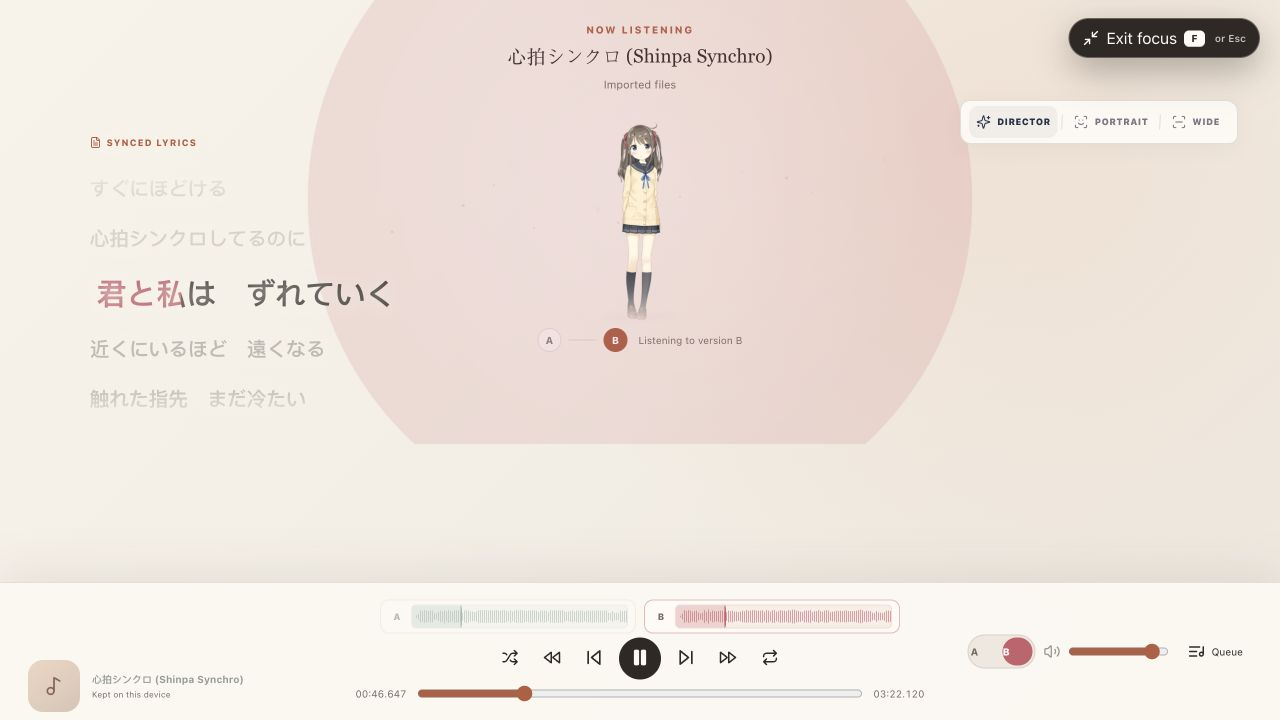
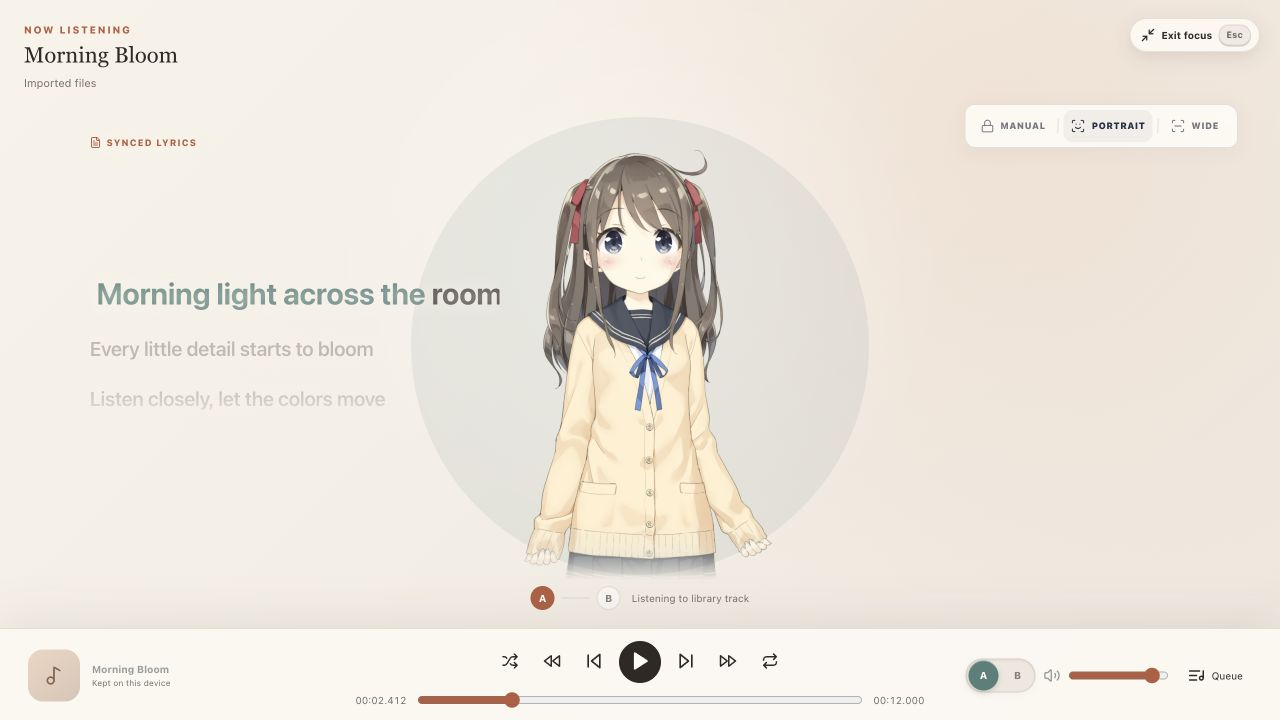
docs: refresh product guide and screenshots

diff --git a/docs/architecture.md b/docs/architecture.md
@@ -47,7 +47,7 @@ Local File(s)
 - Switching tracks changes gain only. It never seeks, changes playback rate, or restarts the clock.
 - An 18 ms crossfade prevents clicks while preserving comparison timing.
 - The longer decoded file defines the shared timeline. A shorter selected source intentionally becomes silent after its own end.
-- The Player and Focus surfaces expose both decoded waveforms, explicit A/B source controls, different-duration and ended-source notices, and visible five-second seek controls.
+- Player exposes both decoded waveforms, explicit A/B source controls, different-duration and ended-source notices, and visible five-second seek controls. Focus keeps source switching and transport controls but omits the waveform cards.
 - Pausing updates the interaction ref, silences the master output, and stops sources in the same input frame.
 
 ## Browser storage and recovery
@@ -125,6 +125,7 @@ The paused state is intentionally quiet, not a frozen bitmap. Natural secondary 
 - The single neutral contact shadow is a Pixi graphic inside Hiyori's camera rig. Its center is offset above the model texture's transparent lower padding so its soft core overlaps the visible soles. It shares the model's position and scale, so wide/close transitions cannot separate the two.
 - Automatic camera motion follows phrase-scale energy, never individual onsets.
 - Entering the player begins on an upper-body close-up. Mouse-wheel input locks manual framing; the Director control resumes automatic framing.
+- Manual framing uses a piecewise render curve: Wide is a larger full-body preset, 162% retains the visible feet, Portrait returns to the authored close-up, and zoom above Portrait adds stronger downward title-safe compensation through the 235% maximum.
 - Pausing holds the current automatic shot.
 
 ## Focus-mode transition
@@ -143,7 +144,7 @@ On initial landing load, the canvas stays hidden while fonts settle and two anim
 
 Arm B ownership is assigned only after CubismPose has initialized its model cache, preventing its implicit first-update reset and 0.5-second part fade. Motion connectors use the complete authored first keyframe—including explicit zero-valued Arm B hand channels—so the final connector frame and the target motion's first frame are identical.
 
-The standard waveform and A/B selector remain the only track controls in both layouts. `prefers-reduced-motion: reduce` disables decorative choreography while preserving the state change.
+The standard waveform cards remain in Player. Focus removes them and retains synchronized lyrics, a compact A/B selector, and the single persistent transport. `prefers-reduced-motion: reduce` disables decorative choreography while preserving the state change.
 
 ## Landing-to-player transition
 

diff --git a/docs/library-player.md b/docs/library-player.md
@@ -50,6 +50,7 @@ Private browsing or unavailable storage falls back to session-only playback with
 - A/B are decoded once and scheduled against the same `AudioContext.currentTime`; source changes only use the existing short gain handoff to prevent clicks, with no media-element chasing or scene fade.
 - Keyboard shortcuts are global outside form controls: Space toggles playback, F toggles Focus, Escape exits Focus/sheets, 1 or A selects source A, 2 or B selects source B, and Left/Right seeks five seconds.
 - Focus always exposes a high-contrast Exit focus control. F enters and exits Focus; Escape remains an exit alternative.
+- Focus removes both waveform cards, preserves synchronized lyrics and the compact A/B selector, and places the stage source indicator directly above the single transport without an implicit empty grid row.
 - Homepage import, Player, Library, Focus enter, and Focus exit reuse the opaque scene curtain from the original listening room. The destination layout is committed only after the curtain covers the Live2D canvas, then held for four paint frames before reveal so camera repositioning and WebGL buffer clearing are never visible.
 - The Pixi rig receives an explicit layout key for Player, Library, and Focus. Model scale, rig position, portrait offset, and camera zoom snap synchronously during the covered commit and must remain numerically stable after reveal.
 - Focus hides the persistent canvas only while the curtain is fully covering and reveals the music disc at its final center; it must not run a separate post-commit disc translation.
@@ -226,5 +227,7 @@ Autoplay is never attempted on page load. Resume restores context and waits for 
 - Verify Queue and Storage animate in and out, remain non-interactive while closed, and become immediate under reduced motion.
 - Verify the storage sheet has no text inside the capacity bar and every action remains a full-width, non-overflowing row.
 - Verify Hiyori's hair and shoes are both visible at default desktop framing.
+- Verify manual 162% framing keeps Hiyori's feet visible above the source indicator, and Player/Focus 235% framing stays below the now-listening title.
+- Verify the Focus source indicator finishes within 20 CSS pixels of the transport at the 1280×720 desktop viewport.
 - Verify Player renders exactly one playback transport while retaining two synchronized waveforms when B exists.
 - Run the common flow in Chromium, Firefox, and WebKit, plus a real Safari smoke test when available.

diff --git a/README.md b/README.md
@@ -25,7 +25,8 @@ Browser storage can still be cleared by private-browsing rules, site-data cleanu
 - Reorder the queue and choose **Play next** without changing the library.
 - Search your collection and resume the last track and position after reopening.
 - Use `Space` to play or pause, arrow keys to seek five seconds, and `F` to enter or leave Focus mode.
-- Switch between Director, Portrait, and Wide camera framing while listening.
+- Start in Portrait, switch to a larger full-body Wide shot, or use the mouse wheel for manual framing up to 235%.
+- Camera framing keeps Hiyori and the background circle aligned, preserves a near-full-body view around 162%, and protects the title area at close zoom.
 
 ## Hear the difference
 
@@ -41,9 +42,9 @@ The current library track is always Version A. Add or drop a Version B only when
 
 ## Focus on the music
 
-![Vibloom Focus mode with synchronized A/B waveforms](docs/assets/focus-mode.png)
+![Vibloom Focus mode with synchronized lyrics and a compact transport](docs/assets/focus-mode.png)
 
-Press `F` for a distraction-free stage. Focus mode keeps the same player, playhead, camera, A/B selector, and both comparison waveforms—there is no duplicate playback bar or restarted audio. Press `F` again or `Esc` to leave.
+Press `F` for a distraction-free stage. Focus mode removes the waveform cards while keeping the same audio clock, playhead, camera, synchronized lyrics, compact A/B selector, and single bottom transport. The stage now reaches the transport instead of leaving a large empty band below Hiyori. Press `F` again or `Esc` to leave.
 
 ## Synchronized lyrics
 
